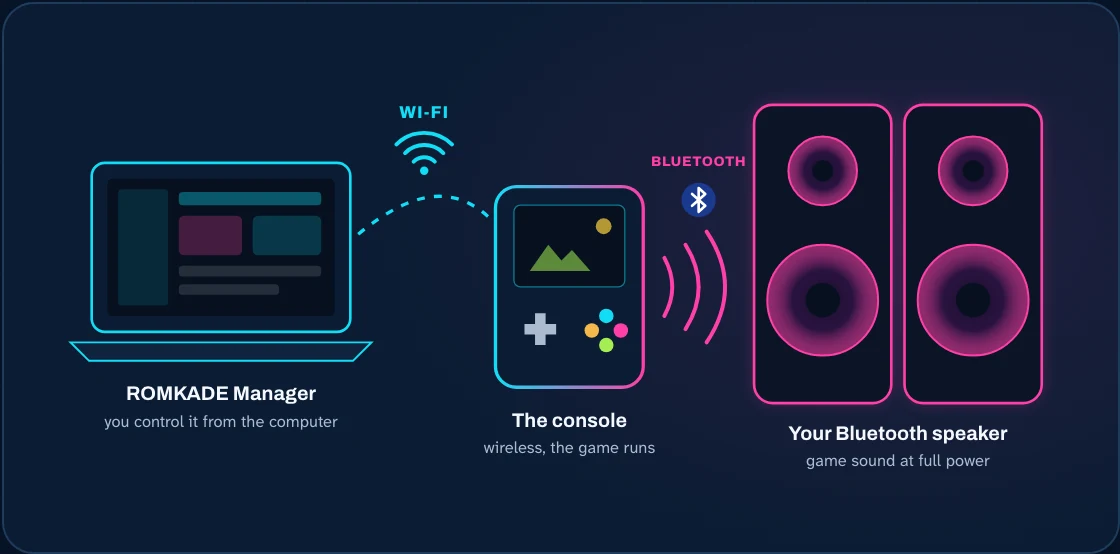
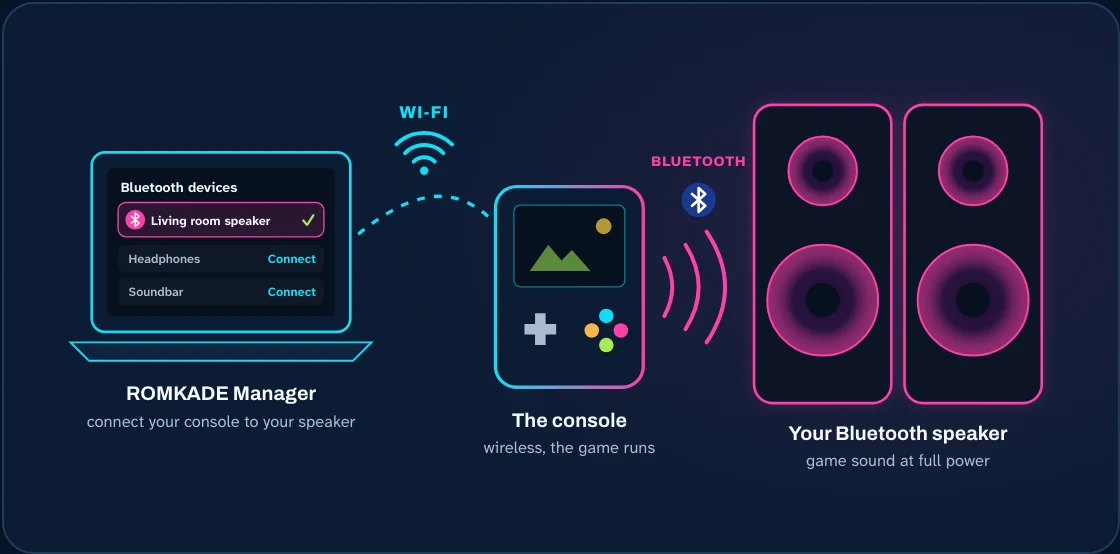
README : titres qui disent l'avantage (« La bonne manette pour chaque joueur, en un clic », « Connecte ta console à ton enceinte Bluetooth »), textes sur ce que fait ROMKADE Manager (associer, attribuer, connecter) ; schéma de l'enceinte avec la liste des appareils Bluetooth

Changed region(s): [[0.0625, 0.2455, 0.3125, 0.5523], [0.0938, 0.7365, 0.3125, 0.7978]]

diff --git a/README.md b/README.md
@@ -52,18 +52,20 @@ suggests games and acts on the console when you click: launch a game, change the
 - **From anywhere, with ChatGPT, Claude or Google Home.** Link your console to your ROMKADE account and ask “Launch
   Tetris” from your phone or your computer.
 
-## Two players on the TV, each with their controller
+## Pick a controller for each player, in one click
 
 <p align="center"><img src="docs/readme/controllers-en.webp" alt="Choose which controller each player uses" width="720"></p>
 
-Plug the console into your TV and play on the big screen, two players, each with their own controller (Bluetooth or USB).
-From your computer, choose who plays with which one: the setting is applied to your games.
+Pair your Bluetooth controllers from your computer, see every controller plugged into the console, and give one to
+each player. ROMKADE Manager applies your choice to your games: plug the console into your TV and play two-player on
+the big screen, without digging through the console's menus.
 
-## Game sound on your Bluetooth speaker
+## Connect your console to your Bluetooth speaker
 
 <p align="center"><img src="docs/readme/bluetooth-en.webp" alt="Game sound sent to a Bluetooth speaker" width="720"></p>
 
-Pair a Bluetooth speaker with the console from your computer, and play with the sound at full power.
+ROMKADE Manager scans the Bluetooth devices around the console. Pick your speaker or headphones: the console connects
+to it and the game sound comes out at full power. One click sends the sound back to the console.
 
 ## Get started in 3 steps
 

diff --git a/README.fr.md b/README.fr.md
@@ -53,18 +53,20 @@ dans ta bibliothèque, propose des jeux et agit sur la console quand tu cliques 
 - **De partout, avec ChatGPT, Claude ou Google Home.** Relie ta console à ton compte ROMKADE et demande « Lance
   Tetris » depuis ton téléphone ou ton ordinateur.
 
-## À deux sur la télé, chacun sa manette
+## La bonne manette pour chaque joueur, en un clic
 
 <p align="center"><img src="docs/readme/controllers-fr.webp" alt="Choisir la manette de chaque joueur" width="720"></p>
 
-Branche la console sur ta télé et joue en grand, à deux, chacun avec sa manette (Bluetooth ou USB). Depuis ton
-ordinateur, choisis qui joue avec laquelle : le réglage s'applique à tes jeux.
+Associe tes manettes Bluetooth depuis ton ordinateur, vois toutes celles branchées sur la console et donnes-en une à
+chaque joueur. ROMKADE Manager applique ton choix à tes jeux : branche la console sur ta télé et joue à deux sur grand
+écran, sans fouiller dans les menus de la console.
 
-## Le son du jeu sur ton enceinte Bluetooth
+## Connecte ta console à ton enceinte Bluetooth
 
 <p align="center"><img src="docs/readme/bluetooth-fr.webp" alt="Le son du jeu envoyé sur une enceinte Bluetooth" width="720"></p>
 
-Associe une enceinte Bluetooth à la console depuis ton ordinateur, et joue avec le son à pleine puissance.
+ROMKADE Manager cherche les appareils Bluetooth autour de la console. Choisis ton enceinte ou ton casque : la console
+s'y connecte et le son du jeu sort à pleine puissance. Un clic renvoie le son vers la console.
 
 ## Démarrer en 3 étapes
 

diff --git a/README.es.md b/README.es.md
@@ -54,18 +54,20 @@ biblioteca, propone juegos y actúa en la consola cuando haces clic: abrir un ju
 - **Desde cualquier sitio, con ChatGPT, Claude o Google Home.** Conecta tu consola a tu cuenta ROMKADE y pide «Abre
   Tetris» desde tu móvil o tu ordenador.
 
-## A dos en la tele, cada uno con su mando
+## El mando adecuado para cada jugador, en un clic
 
 <p align="center"><img src="docs/readme/controllers-es.webp" alt="Elegir el mando de cada jugador" width="720"></p>
 
-Conecta la consola a tu tele y juega en grande, a dos, cada uno con su mando (Bluetooth o USB). Desde tu ordenador,
-elige quién juega con cuál: el ajuste se aplica a tus juegos.
+Empareja tus mandos Bluetooth desde tu ordenador, ve todos los conectados a la consola y da uno a cada jugador.
+ROMKADE Manager aplica tu elección a tus juegos: conecta la consola a tu tele y juega a dos en pantalla grande, sin
+rebuscar en los menús de la consola.
 
-## El sonido del juego en tu altavoz Bluetooth
+## Conecta tu consola a tu altavoz Bluetooth
 
 <p align="center"><img src="docs/readme/bluetooth-es.webp" alt="El sonido del juego enviado a un altavoz Bluetooth" width="720"></p>
 
-Empareja un altavoz Bluetooth con la consola desde tu ordenador, y juega con el sonido a tope.
+ROMKADE Manager busca los dispositivos Bluetooth alrededor de la consola. Elige tu altavoz o tus auriculares: la
+consola se conecta y el sonido del juego sale a tope. Un clic devuelve el sonido a la consola.
 
 ## Empieza en 3 pasos
 
